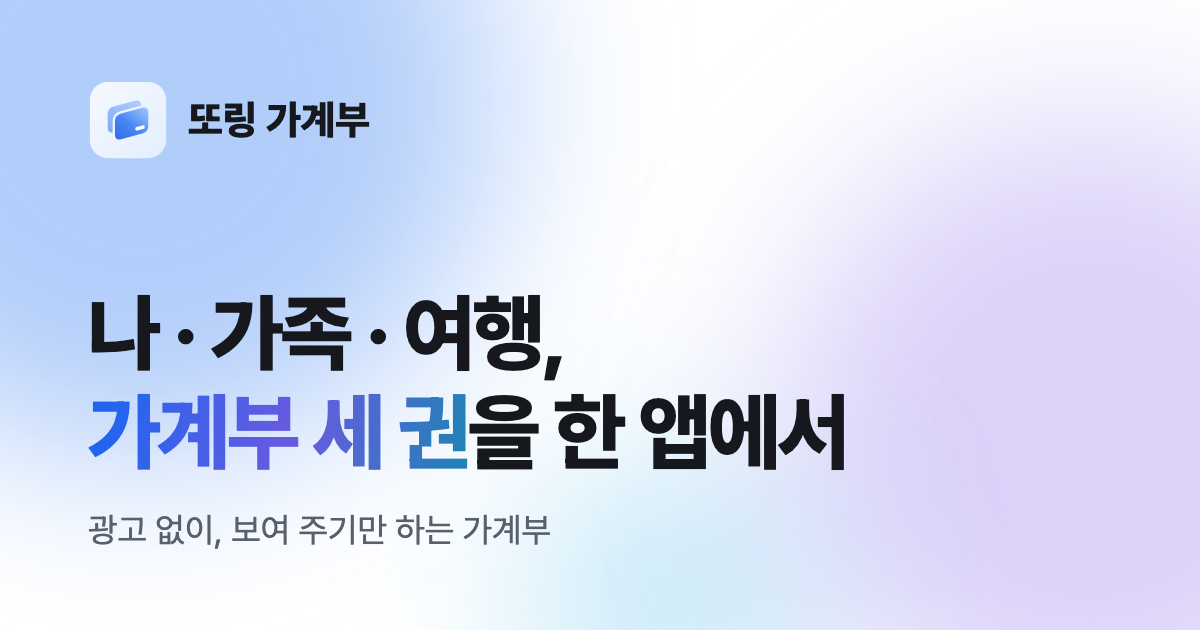
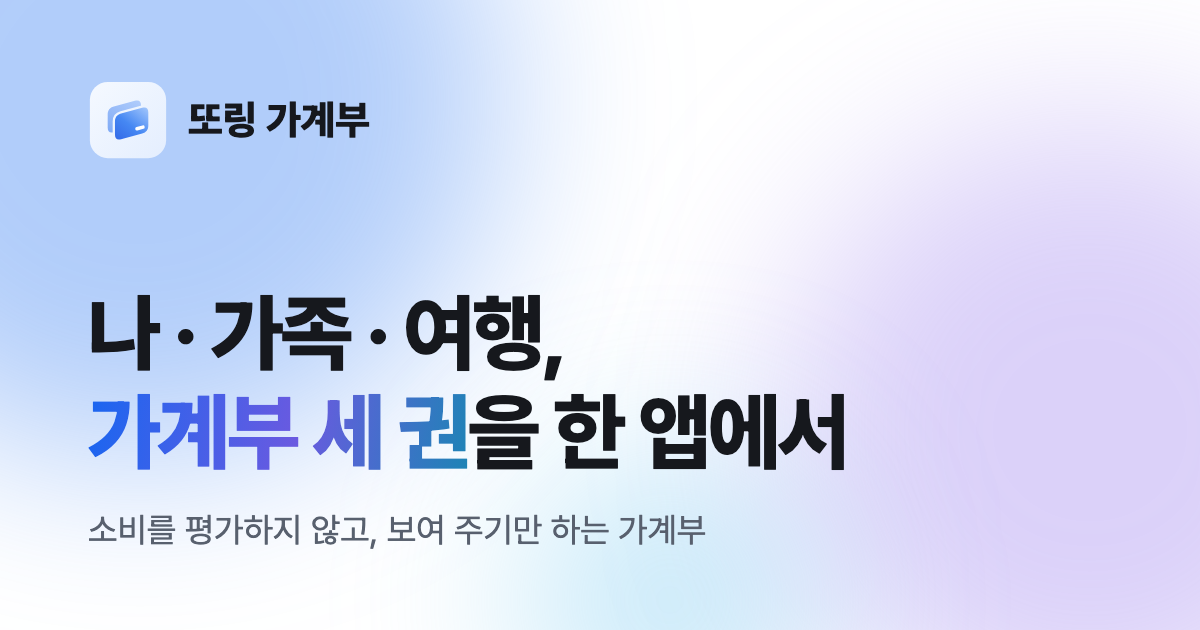
chore: 「광고 없음」 문구 걷기
앞으로 광고를 넣을 수 있어서 광고가 없다는 약속을 사이트 어디에도 남기지 않는다 —
첫 화면 · 떠 있는 칩 · 약속 · 자주 묻는 것 · 검색 키워드 · 설명 · llms.txt · 공유 그림.
약속 칸은 넓은 화면에서 네 칸 한 줄이라 비우지 않고 앱이 실제로 지키는 「분류를 짐작하지 않아요」로 채웠다.
떠 있는 칩은 약속 구역의 말(잔소리하는 가계부는 오래 못 써요)과 같은 「잔소리 없는 가계부」다.
README 에 다시 들어오지 않게 문구 규칙을 한 줄 적었다.

Changed region(s): [[0.0617, 0.8143, 0.5858, 0.8746]]

diff --git a/src/config/site.ts b/src/config/site.ts
@@ -5,7 +5,7 @@ export const SITE = {
   /* 검색 결과의 제목 — 사람들이 찾는 말(부부 · 가족 공유 가계부, 여행 경비 정산)을 앞에 둔다 */
   title: "또링 가계부 — 부부 · 가족 공유 가계부와 내 가계부, 여행 경비 정산까지",
   description:
-    "부부 · 가족이 함께 쓰는 공유 가계부, 혼자 쓰는 내 가계부, 외화 지출과 정산을 적는 여행 가계부를 한 앱에서. 예산 · 고정비 · 자산 · 카드 결제 알림까지, 광고 없이 보여 주기만 하는 가계부 앱이에요.",
+    "부부 · 가족이 함께 쓰는 공유 가계부, 혼자 쓰는 내 가계부, 외화 지출과 정산을 적는 여행 가계부를 한 앱에서. 예산 · 고정비 · 자산 · 카드 결제 알림까지, 보여 주기만 하는 가계부 앱이에요.",
   /* 같은 앱을 부르는 다른 이름 — 띄어쓰기 없이 찾는 사람과 옛 이름(달살림)으로 찾는 사람 */
   alternateNames: ["또링가계부", "또링", "달살림"],
   publisher: "dabutdev",

diff --git a/src/components/home/Faq.tsx b/src/components/home/Faq.tsx
@@ -28,10 +28,6 @@ export const FAQ = [
       "안드로이드에서는 직접 고른 카드사 · 은행 · 페이 앱의 결제 알림을 알림함에 모아 둬요. 넣을지, 어느 분류로 넣을지는 직접 고르고, 켜 둔 곳은 자동으로 적게 할 수도 있어요. 문자는 읽지 않고, 알림 원문은 폰 밖으로 나가지 않아요.",
   },
   {
-    question: "광고가 있나요?",
-    answer: "없어요. 가계부를 쓰는 동안 끼어드는 광고가 없어요.",
-  },
-  {
     question: "아이폰에서도 쓸 수 있나요?",
     answer: "지금은 안드로이드 앱으로 베타 테스트 중이고, iOS 는 준비 중이에요.",
   },
@@ -53,7 +49,7 @@ export function Faq() {
         <div className="faq-list reveal">
           {FAQ.map((item) => (
             <details key={item.question}>
-              <summary>
+              <summary className="ripple">
                 <h3>{item.question}</h3>
               </summary>
               <p>{item.answer}</p>

diff --git a/src/components/home/Hero.tsx b/src/components/home/Hero.tsx
@@ -28,7 +28,7 @@ export function Hero() {
           </h1>
           <p className="hero-lede">
             혼자 쓰는 내 가계부, 부부 · 가족이 같이 결산하는 공유 가계부, 외화로 적고 정산하는 여행
-            가계부. 광고 없이, 소비를 평가하지 않고 보여 주기만 해요.
+            가계부. 소비를 평가하지 않고 보여 주기만 해요.
           </p>
           <PlatformStatus />
           <a href={HELP.href} className="btn btn-ghost">
@@ -58,7 +58,7 @@ export function Hero() {
             <b>578,400원</b>
           </p>
           <p className="float-chip chip-free" aria-hidden="true">
-            광고 없는 가계부
+            잔소리 없는 가계부
           </p>
         </div>
       </div>

diff --git a/src/components/home/Promises.tsx b/src/components/home/Promises.tsx
@@ -5,12 +5,12 @@ import { LEGAL } from "@/config/site";
 
 const PROMISES = [
   {
-    title: "광고가 없어요",
-    text: "가계부를 여는 동안 끼어드는 광고가 없어요.",
-  },
-  {
     title: "소비를 평가하지 않아요",
     text: "「너무 많이 썼어요」 같은 말, 점수 · 등급 · 순위가 없어요. 내역과 통계만 보여 주고, 판단은 쓰는 사람의 몫이에요.",
+  },
+  {
+    title: "분류를 짐작하지 않아요",
+    text: "가게 이름만 보고 분류를 넣지 않아요. 어디에 넣을지는 쓰는 사람이 골라요.",
   },
   {
     title: "세세한 내역은 나만 봐요",

diff --git a/scripts/og-image.html b/scripts/og-image.html
@@ -162,7 +162,7 @@
       </div>
       <div>
         <h1>나 · 가족 · 여행,<br /><em>가계부 세 권</em>을 한 앱에서</h1>
-        <p>광고 없이, 보여 주기만 하는 가계부</p>
+        <p>소비를 평가하지 않고, 보여 주기만 하는 가계부</p>
       </div>
     </main>
   </body>

diff --git a/src/app/layout.tsx b/src/app/layout.tsx
@@ -30,7 +30,6 @@ export const metadata: Metadata = {
     "더치페이 정산",
     "고정비 관리",
     "예산 관리",
-    "광고 없는 가계부",
   ],
   authors: [{ name: SITE.publisher }],
   creator: SITE.publisher,

diff --git a/README.md b/README.md
@@ -120,5 +120,6 @@ Node 버전은 `.node-version` 이 정한다. `main` 에 머지하면 다시 빌
 
 - 해요체로 쓴다 (`~해요` · `~예요`).
 - **또링 가계부는 소비를 평가하지 않는다.** 「절약」 「아껴요」 「달성」 「점수」 「많이 쓴 사람」 같은 말로 앱을 소개하지 않는다.
+- **광고가 없다고 쓰지 않는다.** 앞으로 광고를 넣을 수 있다 (2026-10-25).
 - **앱이 분류를 골라 준다고 쓰지 않는다.** 결제 알림은 「넣을지는 직접 고르거나 자동으로 넣게 할 수 있다」까지만 말한다.
 - 붉은 글자는 「지난달보다 늘어난 금액」 한 곳에만 쓴다. 지출 자체에는 쓰지 않는다.
